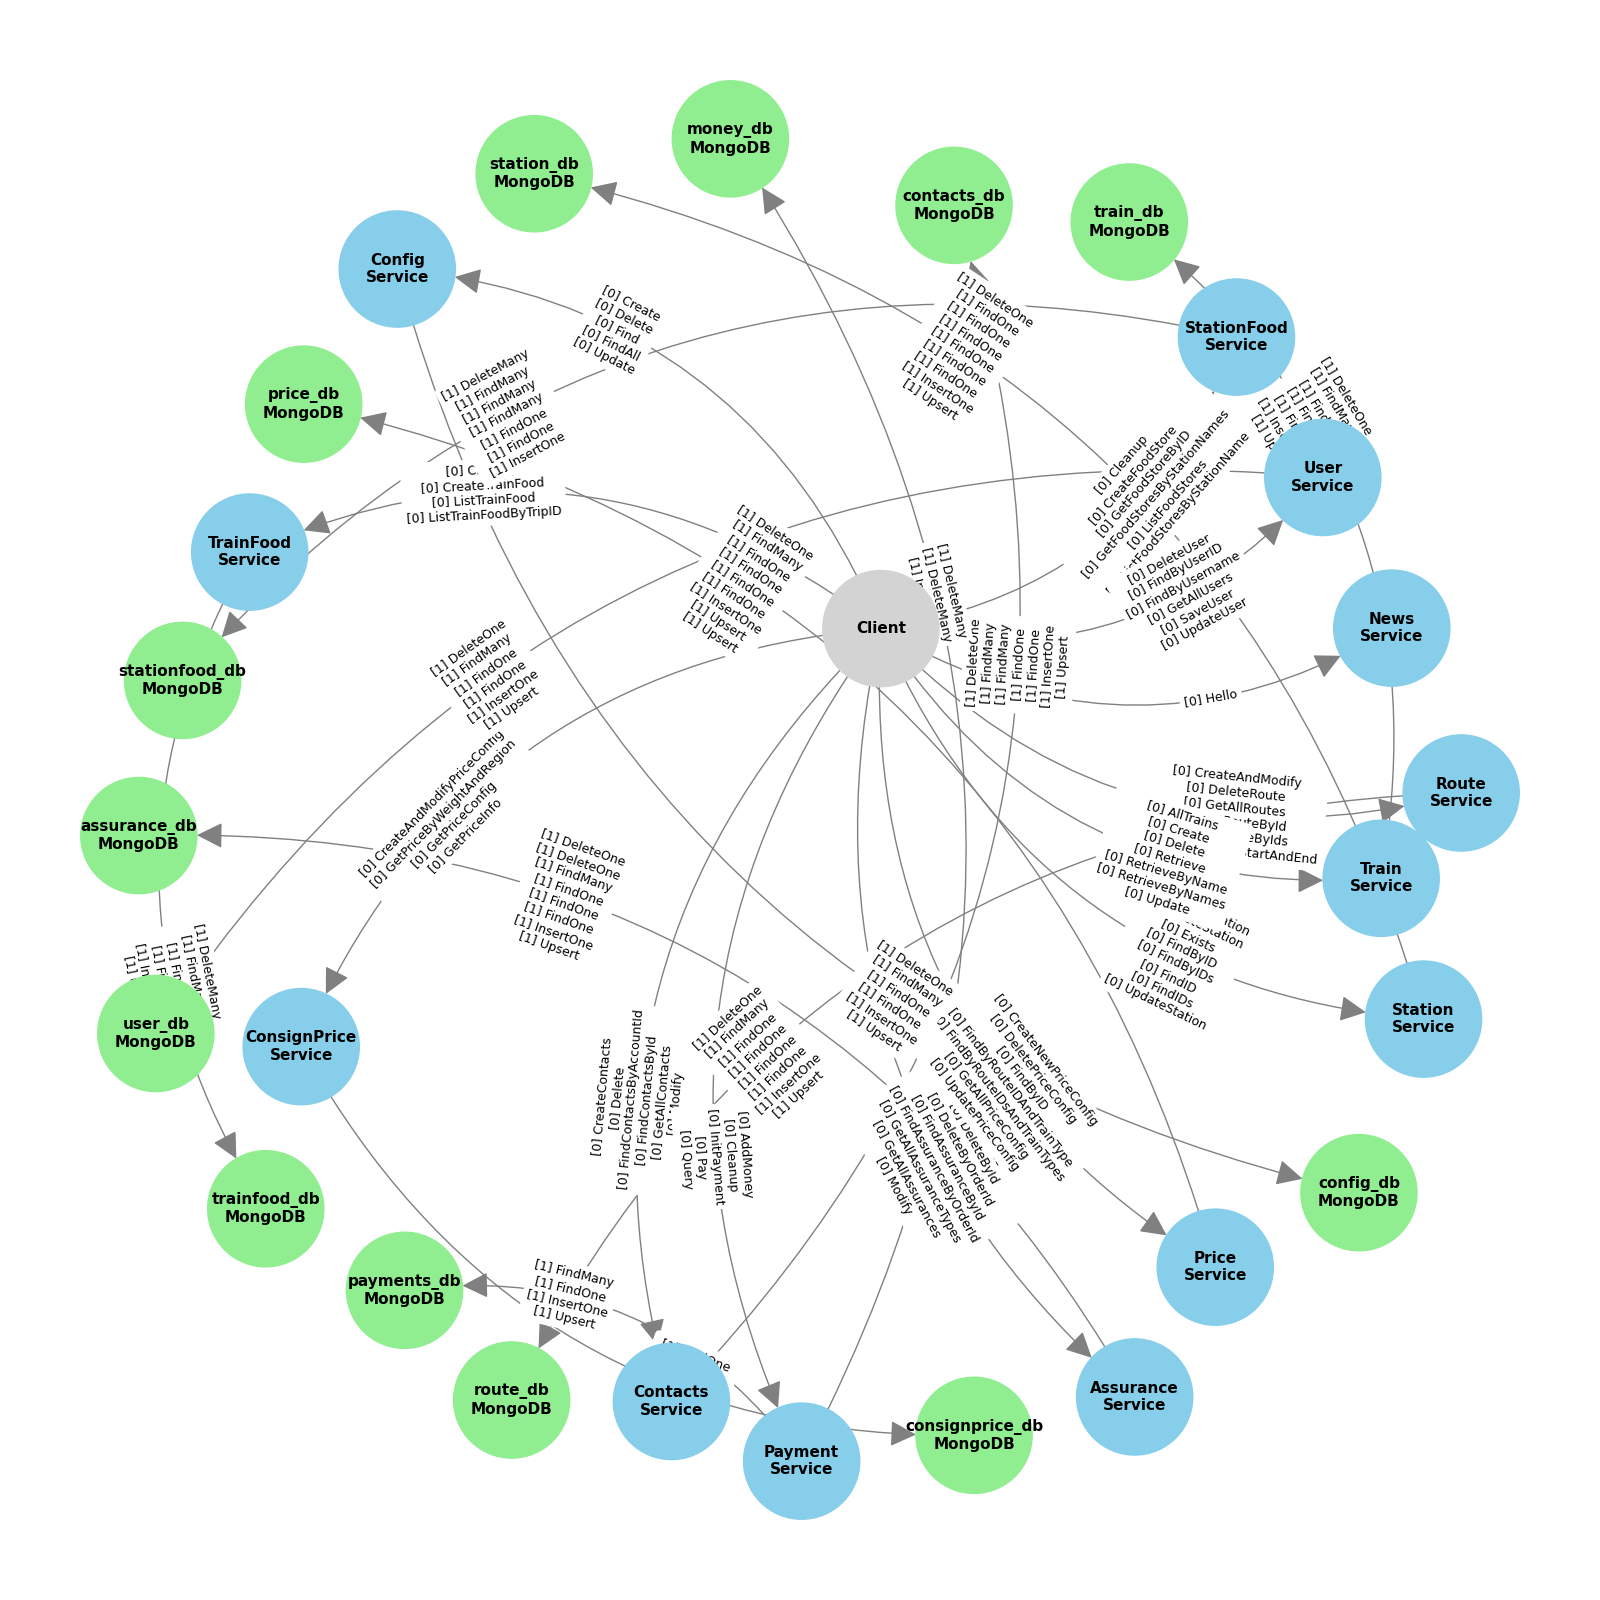
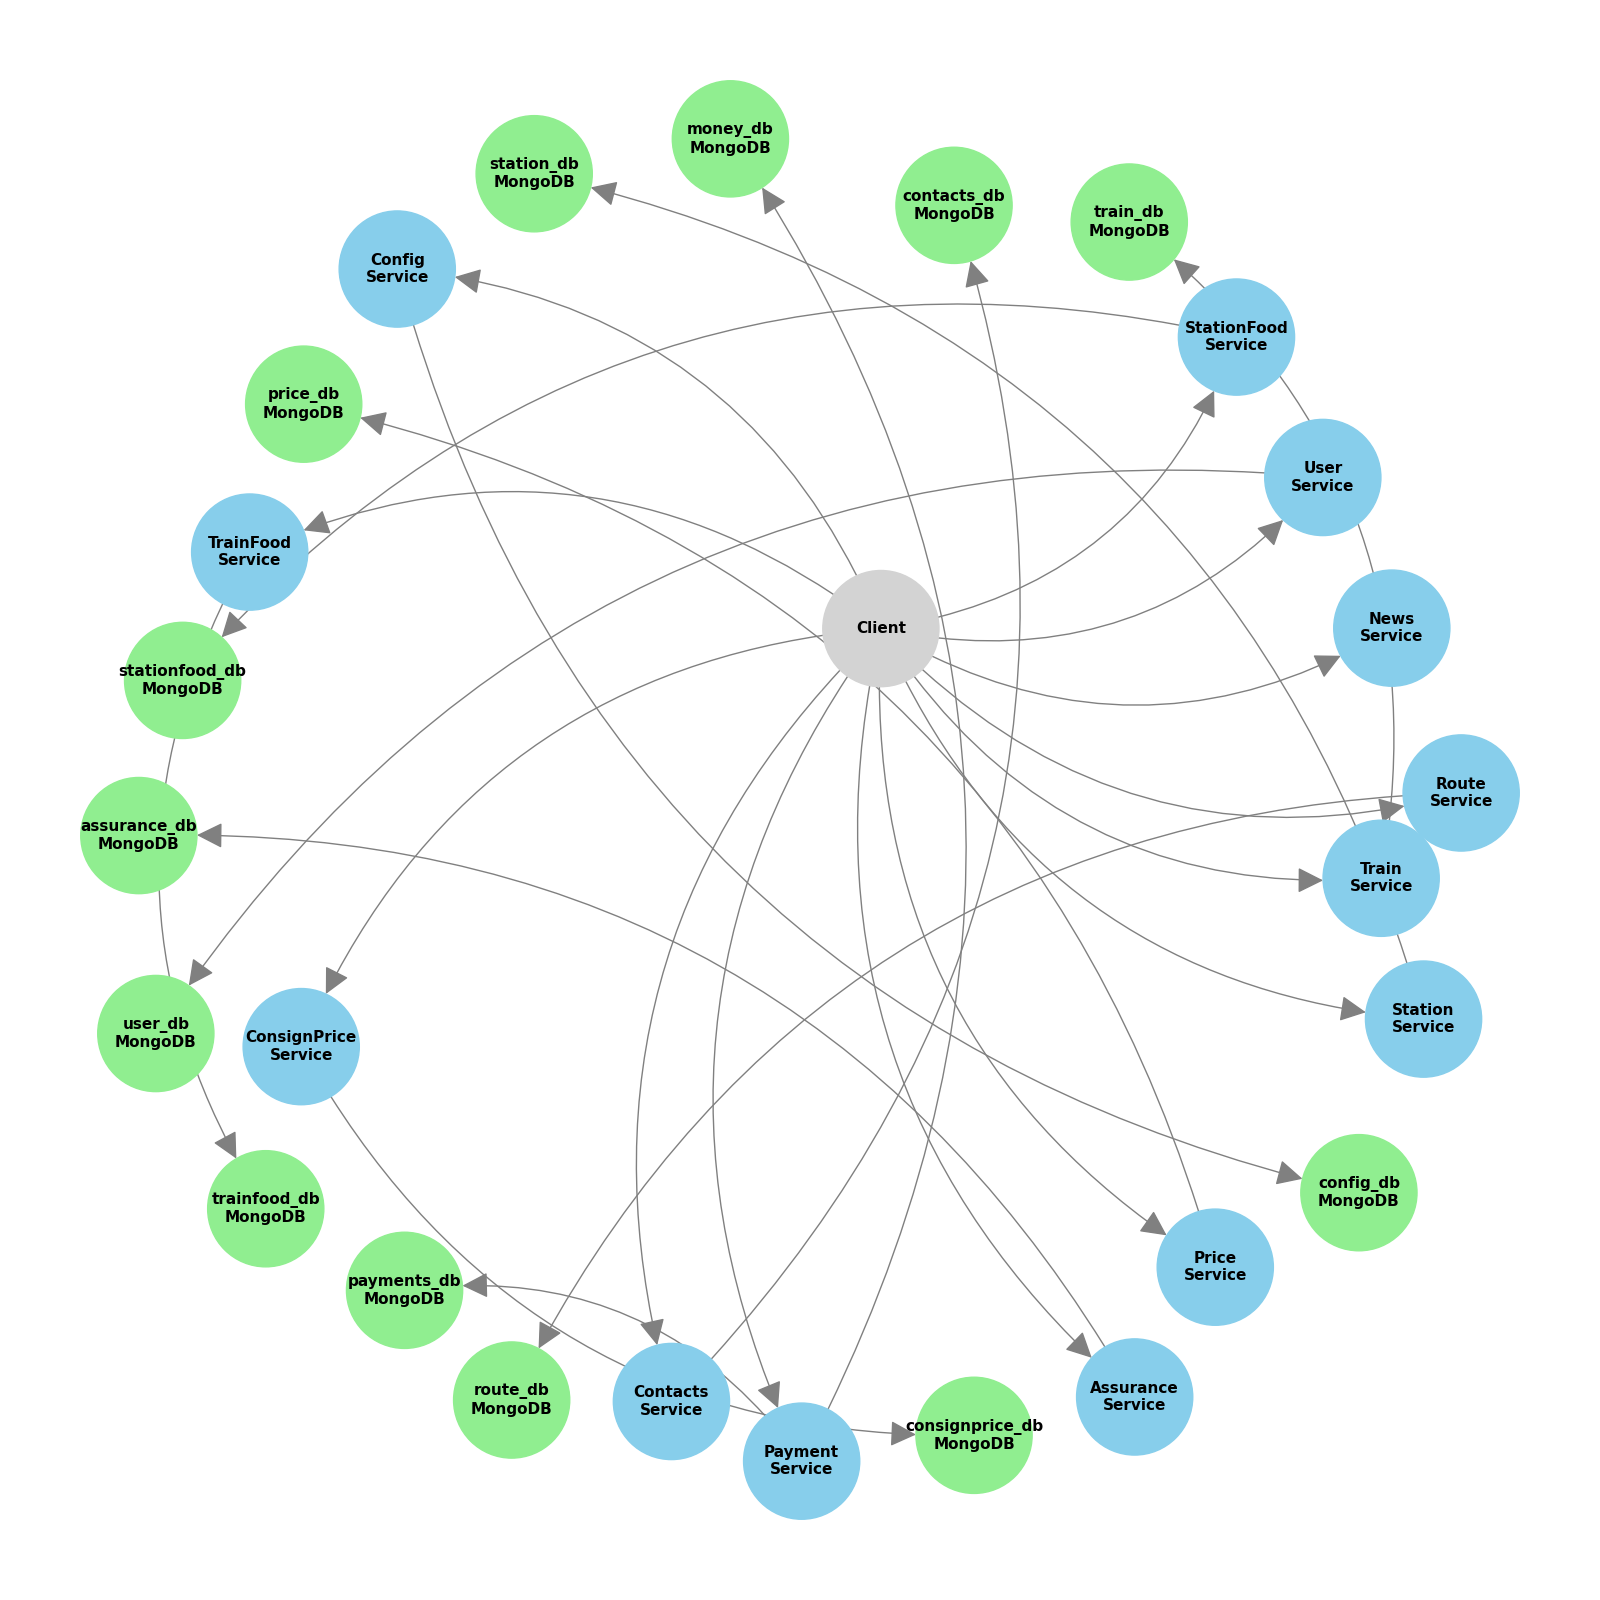
Split digraph figures into default and labeled

diff --git a/digraph.py b/digraph.py
@@ -19,7 +19,7 @@ def get_spaced_label(name):
         name = splits[0] + '\n' + splits[1]
     return name
 
-def build_digraph(data, graph_type):
+def build_digraph(data, graph_type, labeled):
     digraph = nx.DiGraph()
 
     node_colors = {
@@ -56,7 +56,7 @@ def build_digraph(data, graph_type):
         connectionstyle='arc3,rad=0.3',
     )
 
-    if graph_type != "app":
+    if graph_type != "app" and labeled:
         edge_count = defaultdict(lambda: {'calls': [], 'count': 0})
 
         for edge in data['edges']:
@@ -89,16 +89,16 @@ def load(app, graph):
         data = json.load(f)
     return data
 
-def save(app, graph, multi):
-    if multi:
+def save(app, graph, labeled):
+    if labeled:
         plt.title(f"{graph.capitalize()} Multi DiGraph Visualization")
     else:
         plt.title(f"{graph.capitalize()} DiGraph Visualization")
 
     #plt.show()
 
-    if multi:
-        output_path = f"assets/{app}/digraphs/{graph}_multi_graph.png"
+    if labeled:
+        output_path = f"assets/{app}/digraphs/{graph}_labeled_graph.png"
     else:
         output_path = f"assets/{app}/digraphs/{graph}_graph.png"
     plt.savefig(output_path, format='png')
@@ -108,9 +108,9 @@ if __name__ == "__main__":
     parser = argparse.ArgumentParser(description="Visualize graphs based on the specified application and graph type")
     parser.add_argument('--app', '-a', required=True, choices=['postnotification', 'foobar', 'sockshop', 'trainticket'], help="The application for which to visualize the graph")
     parser.add_argument('--graph', '-g', required=True, choices=['app', 'call'], help="The type of graph to visualize")
-    parser.add_argument('--multi', '-m', action='store_true', help="Construct multi digraph")
+    parser.add_argument('--labeled', '-l', action='store_true', help="Construct labeled digraph")
     args = parser.parse_args()
 
     data = load(args.app, args.graph)
-    build_digraph(data, args.graph)
-    save(args.app, args.graph, args.multi)
+    build_digraph(data, args.graph, args.labeled)
+    save(args.app, args.graph, args.labeled)

diff --git a/pkg/types/dumper.go b/pkg/types/dumper.go
@@ -15,7 +15,7 @@ import (
 // --------------
 
 func (f *ParsedMethod) Yaml() interface{} {
-	logger.Logger.Debugf("[YAML] dumping yaml data for method (%s)", f.Name)
+	logger.Logger.Tracef("[YAML] dumping yaml data for method (%s)", f.Name)
 	if f.ParsedCfg != nil {
 		return f.ParsedCfg.Yaml()
 	}
@@ -23,10 +23,10 @@ func (f *ParsedMethod) Yaml() interface{} {
 }
 
 func (f *ParsedMethod) YamlCalls() []string {
-	logger.Logger.Debugf("[YAML CALLS] dumping yaml calls for method (%s)", f.Name)
+	logger.Logger.Tracef("[YAML CALLS] dumping yaml calls for method (%s)", f.Name)
 	var lst []string
 	for _, c := range f.Calls {
-		logger.Logger.Debugf("\t\t\t - call: %s, method: %v", c.GetName(), c.GetMethod())
+		logger.Logger.Tracef("\t\t\t - call: %s, method: %v", c.GetName(), c.GetMethod())
 		lst = append(lst, c.GetMethod().LongString())
 	}
 	return lst
